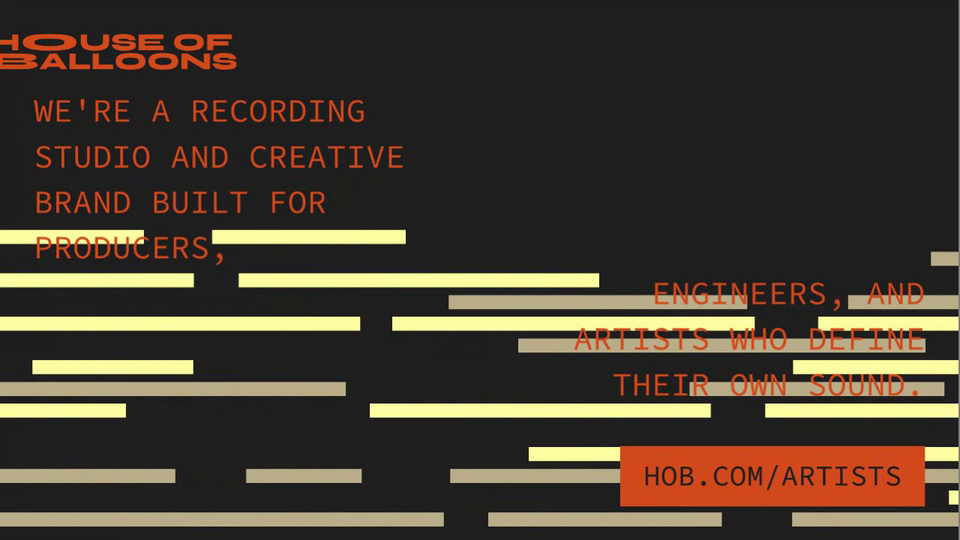
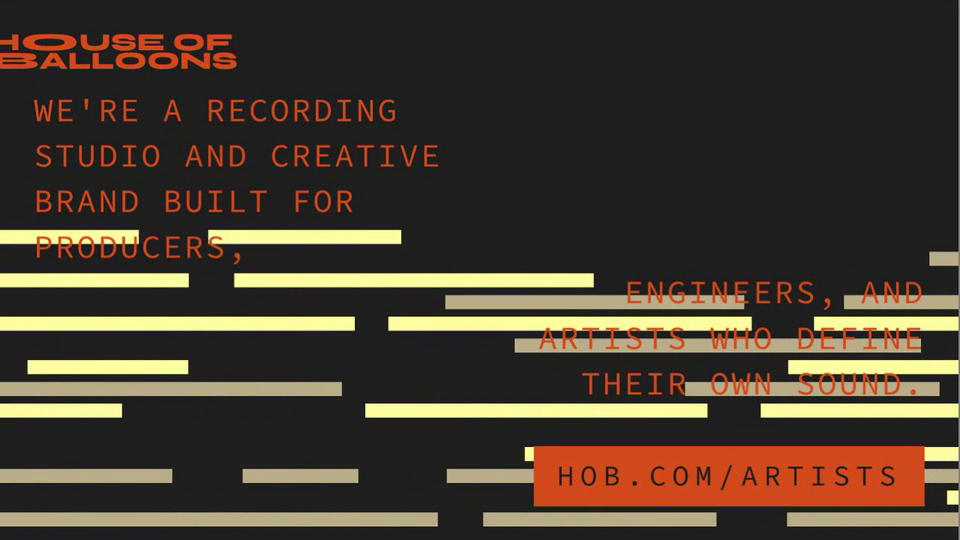
HOB Social Studio: drag text on canvas, reel safe zones, reference bitmap imagery and text styling
Claude-Session: https://claude.ai/code/session_01AHeBdw1yZrTVobosxD3wAX

diff --git a/hob-social-studio/index.html b/hob-social-studio/index.html
@@ -25,6 +25,17 @@ nav.back b{font-weight:500;color:#fff;overflow:hidden;text-overflow:ellipsis}
 #stage{flex:1;min-width:0;display:flex;align-items:center;justify-content:center;padding:20px}
 .cw{display:flex;flex-direction:column;gap:8px}
 .cap{display:flex;justify-content:space-between;font-size:12px;color:#777}
+.gal{grid-template-columns:repeat(3,1fr);margin-bottom:12px}
+.gal button{padding:0;height:56px;border-radius:8px;overflow:hidden;border:2px solid transparent;background:#222}
+.gal button img{width:100%;height:100%;object-fit:cover;display:block}
+.gal button[aria-pressed="true"]{outline:2px solid #111;outline-offset:2px;background:#222}
+.stack{position:relative}
+.stack canvas{touch-action:none}
+#lasso{position:absolute;display:none;pointer-events:none;border:2px dashed #3d9bff;border-radius:2px}
+#lasso i{position:absolute;width:9px;height:9px;background:#fff;border:2px solid #3d9bff;border-radius:2px}
+.safe{position:absolute;left:0;right:0;display:none;pointer-events:none;background:repeating-linear-gradient(135deg,rgba(255,70,70,.16) 0 6px,rgba(255,70,70,.06) 6px 12px);color:#fff;font:600 10px/1 "Inter",sans-serif;letter-spacing:.12em;text-transform:uppercase;padding:8px 10px}
+.safe.t{top:0;border-bottom:1px dashed rgba(255,255,255,.7)}.safe.b{bottom:0;border-top:1px dashed rgba(255,255,255,.7);display:none;align-items:flex-end}
+.clip #lasso,.clip .safe{display:none!important}
 canvas{display:block;width:100%;height:auto;background:#000}
 aside{flex:none;width:320px;background:#fff;border-left:1px solid #e6e6e6;padding:20px 20px 28px;overflow-y:auto}
 aside h2{font:600 13px/1 "Inter",sans-serif;margin:0 0 14px}
@@ -85,7 +96,7 @@ button.go{background:#5ca0ff;color:#fff}button.go:hover{background:#4a91f5}
 <div class="app">
   <div class="bar"><b>HOB Studio</b><div class="r"><button type="button" class="hbtn rec" id="recOpen"><span class="dot">&#9679;</span> Record Video</button><button type="button" class="hbtn exp" id="expImg">Export Image</button></div></div>
   <div class="main">
-    <div id="stage"><div class="cw" id="cw"><div class="cap"><span id="capL"></span><span id="capR"></span></div><canvas id="cv"></canvas></div></div>
+    <div id="stage"><div class="cw" id="cw"><div class="cap"><span id="capL"></span><span id="capR"></span></div><div class="stack" id="stack"><canvas id="cv"></canvas></div></div></div>
     <aside>
       <section><h2>Details</h2>
         <div class="row two"><span>Size</span><input id="w" type="number" min="200" max="2400" aria-label="Width"><input id="h" type="number" min="200" max="2400" aria-label="Height"></div>
@@ -108,6 +119,7 @@ button.go{background:#5ca0ff;color:#fff}button.go:hover{background:#4a91f5}
       </section>
       <section><h2>Image</h2>
         <label class="f" style="display:block;cursor:pointer;color:#888;margin-bottom:8px">Upload…<input id="up" type="file" accept="image/*" style="display:none"></label>
+        <div class="grid gal" id="gal"></div>
         <div class="row"><span>Pixel size</span><input id="cell" type="range" min="4" max="20" value="8"><output>8</output></div>
       </section>
       <section><h2>Motion</h2>
@@ -145,16 +157,19 @@ const COMBOS=[
   {n:'Black',bg:CHAR,tx:ORANGE,ib:CHAR,ii:CREAM,br:[CREAM,TAN]}
 ];
 const LAYOUTS=[['poster','Poster'],['image','Image Top'],['bleed','Full Bleed'],['bars','Bars']];
-const S={w:1080,h:1350,combo:0,layout:'poster',head:'HOUSE OF\nBALLOONS',b1:"WE'RE A RECORDING STUDIO AND CREATIVE BRAND BUILT FOR PRODUCERS,",b2:"ENGINEERS, AND ARTISTS WHO DEFINE THEIR OWN SOUND.",zone:'bot60',tag:'HOB.COM/ARTISTS',hs:100,bs:100,amt:1.8,sel:[1,9],cell:8,sp:100,paused:false,loop:true};
+const S={img:-1,off:{head:[0,0],b1:[0,0],b2:[0,0],tag:[0,0]},w:1080,h:1350,combo:0,layout:'poster',head:'HOUSE OF\nBALLOONS',b1:"WE'RE A RECORDING STUDIO AND CREATIVE BRAND BUILT FOR PRODUCERS,",b2:"ENGINEERS, AND ARTISTS WHO DEFINE THEIR OWN SOUND.",zone:'bot60',tag:'HOB.COM/ARTISTS',hs:100,bs:100,amt:1.8,sel:[1,9],cell:8,sp:100,paused:false,loop:true};
 const $=id=>document.getElementById(id);
 const cv=$('cv'),off=document.createElement('canvas');
 let ctx=cv.getContext('2d');const mainCtx=ctx,offCtx=off.getContext('2d');
-let T=0,last=0,W=0,H=0;
+let T=0,last=0,W=0,H=0,sel=null,drag=null;const BOX={};
 const fr=a=>a-Math.floor(a), hh=(a,b)=>fr(Math.sin(a*127.1+b*311.7)*43758.5453), mod=(a,n)=>((a%n)+n)%n;
 const HF='800 100px Syne, "Arial Black", sans-serif';
 const MONO=s=>'400 '+s+'px "Source Code Pro", ui-monospace, monospace';
 
 /* ---------- image: uploaded, or a generated balloon picture ---------- */
+const IMGS=['folds','synth','figure','face','hair','mixer'].map(n=>{const i=new Image();i.src='img/'+n+'.jpg';return i;});
+const AUTO=[0,1,2,5,4]; // each colour combo has its own default picture, taken from the poster reference
+const curImg=()=>{if(imgEl)return imgEl;const i=IMGS[S.img>=0?S.img:AUTO[S.combo]];return i&&i.complete&&i.naturalWidth?i:null;};
 let imgEl=null,seed=1,ditherKey='',gray=null,gw=0,gh=0;
 function balloons(){
   const c=document.createElement('canvas');c.width=c.height=800;const g=c.getContext('2d');
@@ -168,16 +183,16 @@ function balloons(){
   return c;
 }
 let defImg=balloons();
-$('up').onchange=e=>{const f=e.target.files[0];if(!f)return;const im=new Image();im.onload=()=>{imgEl=im;ditherKey='';};im.src=URL.createObjectURL(f);};
+$('up').onchange=e=>{const f=e.target.files[0];if(!f)return;const im=new Image();im.onload=()=>{imgEl=im;ditherKey='';buildGal();};im.src=URL.createObjectURL(f);};
 
 /* ---------- ordered dither of the image inside a rect ---------- */
 const BAYER=(function(){const d=(n,i,j)=>n===1?[[0,2],[3,1]][j][i]:d(n-1,i>>1,j>>1)+d(1,i&1,j&1)*4;const a=[];for(let j=0;j<8;j++)for(let i=0;i<8;i++)a.push(d(3,i,j));return a;})();
 function prep(R){
-  const c=S.cell,key=[R.w,R.h,c,imgEl?imgEl.src:'d'+seed].join();
+  const c=S.cell,im=curImg()||defImg,key=[R.w,R.h,c,im.src||'d'+seed].join();
   if(key===ditherKey)return;ditherKey=key;
   gw=Math.ceil(R.w/c);gh=Math.ceil(R.h/c);
   const lo=document.createElement('canvas');lo.width=gw;lo.height=gh;const g=lo.getContext('2d');
-  const im=imgEl||defImg,iw=im.naturalWidth||im.width,ih=im.naturalHeight||im.height,ar=gw/gh;
+  const iw=im.naturalWidth||im.width,ih=im.naturalHeight||im.height,ar=gw/gh;
   let sw=iw,sh=iw/ar;if(sh>ih){sh=ih;sw=ih*ar;}
   g.drawImage(im,(iw-sw)/2,(ih-sh)/2,sw,sh,0,0,gw,gh);
   const d=g.getImageData(0,0,gw,gh).data;gray=new Float32Array(gw*gh);let lo_=255,hi=0;
@@ -200,7 +215,8 @@ function drawImage(R,C){
 }
 
 /* ---------- headline with 1 or 2 stretched letters ---------- */
-const rw=ch=>{ctx.font=HF;return ctx.measureText(ch).width;};
+const ls=v=>{if('letterSpacing' in ctx)ctx.letterSpacing=v;};
+const rw=ch=>{ls('0px');ctx.font=HF;return ctx.measureText(ch).width;};
 function lineData(){
   const lines=S.head.toUpperCase().split('\n').slice(0,4),out=[];let pos=0;
   for(const L of lines){const ch=[];for(let i=0;i<L.length;i++)ch.push({c:L[i],i:pos+i,w:rw(L[i])});pos+=L.length+1;out.push(ch);}
@@ -210,23 +226,22 @@ function headMetrics(avail,mul){
   const ld=lineData();let mx=1;
   for(const L of ld){let w=0;for(const g of L)w+=g.w*(S.sel.includes(g.i)?S.amt:1);mx=Math.max(mx,w);}
   const size=avail/mx*100*(S.hs/100)*mul;ctx.font=HF;ctx.textBaseline='alphabetic';
-  const cap=ctx.measureText('H').actualBoundingBoxAscent*size/100,pitch=cap*1.22;
+  const cap=ctx.measureText('H').actualBoundingBoxAscent*size/100,pitch=cap*1.17;
   return{ld,size,cap,pitch,h:cap+pitch*(ld.length-1)};
 }
 function drawHead(M,x0,y0,col){
-  ctx.fillStyle=col;ctx.font=HF.replace('100px',M.size+'px');ctx.textBaseline='alphabetic';
+  ls('0px');ctx.fillStyle=col;ctx.font=HF.replace('100px',M.size+'px');ctx.textBaseline='alphabetic';let end=x0;
   M.ld.forEach((L,li)=>{
     let x=x0;const y=y0+M.cap+li*M.pitch;
-    for(const g of L){
-      const w=g.w*M.size/100,on=S.sel.includes(g.i),s=on?S.amt:1; // headline is static
-      ctx.save();ctx.translate(x,y);ctx.scale(s,1);ctx.fillText(g.c,0,0);ctx.restore();x+=w*s;
-    }
+    for(const g of L){const w=g.w*M.size/100,s=S.sel.includes(g.i)?S.amt:1;ctx.save();ctx.translate(x,y);ctx.scale(s,1);ctx.fillText(g.c,0,0);ctx.restore();x+=w*s;} // headline is static
+    end=Math.max(end,x);
   });
+  BOX.head={x:x0,y:y0,w:end-x0,h:M.h};
 }
 
 /* ---------- mono body + tag ---------- */
 function bodyLines(text,w,size){
-  ctx.font=MONO(size);const out=[];
+  ctx.font=MONO(size);ls('.06em');const out=[];
   for(const para of text.toUpperCase().split('\n')){let cur='';
     for(const wd of para.split(/\s+/)){const t=cur?cur+' '+wd:wd;if(cur&&ctx.measureText(t).width>w){out.push(cur);cur=wd;}else cur=t;}
     out.push(cur);}
@@ -235,12 +250,21 @@ function bodyLines(text,w,size){
 // the sub copy runs as two sections: the left one left-aligned, the right one right-aligned to the margin
 function cols(bw,size){const cw=(bw-W*.04)/2,a=bodyLines(S.b1,cw,size),b=bodyLines(S.b2,cw,size);return{a,b,h:Math.max(a.length,b.length+4)*size*1.4};}
 function drawCols(x,y,bw,size,col){
-  const c=cols(bw,size);ctx.font=MONO(size);ctx.fillStyle=col;ctx.textBaseline='top';
-  ctx.textAlign='left';c.a.forEach((l,i)=>ctx.fillText(l,x,y+i*size*1.4));
-  ctx.textAlign='right';c.b.forEach((l,i)=>ctx.fillText(l,x+bw,y+(i+4)*size*1.4));ctx.textAlign='left'; // second section sits 4 lines lower
+  const c=cols(bw,size),lh=size*1.4,o1=S.off.b1,o2=S.off.b2;
+  ctx.font=MONO(size);ls('.06em');ctx.fillStyle=col;ctx.textBaseline='top';let wa=0,wb=0;
+  ctx.textAlign='left';c.a.forEach((l,i)=>{ctx.fillText(l,x+o1[0],y+o1[1]+i*lh);wa=Math.max(wa,ctx.measureText(l).width);});
+  ctx.textAlign='right';c.b.forEach((l,i)=>{ctx.fillText(l,x+bw+o2[0],y+o2[1]+(i+4)*lh);wb=Math.max(wb,ctx.measureText(l).width);}); // second section sits 4 lines lower
+  ctx.textAlign='left';
+  BOX.b1={x:x+o1[0],y:y+o1[1],w:wa,h:c.a.length*lh};
+  BOX.b2={x:x+bw+o2[0]-wb,y:y+o2[1]+4*lh,w:wb,h:c.b.length*lh};
 }
-function tagBox(){const size=W*.03*S.bs/100;ctx.font=MONO(size);const t=S.tag.toUpperCase();return{t,size,w:ctx.measureText(t).width+size*1.6,h:size*2.1};}
-function drawTag(x,y,C){const b=tagBox();ctx.fillStyle=C.tx;ctx.fillRect(Math.round(x),Math.round(y),Math.round(b.w),Math.round(b.h));ctx.fillStyle=C.bg;ctx.font=MONO(b.size);ctx.textBaseline='middle';ctx.fillText(b.t,x+b.size*.8,y+b.h/2+b.size*.04);}
+function tagBox(){const size=W*.03*S.bs/100;ctx.font=MONO(size);ls('.2em');const t=S.tag.toUpperCase();return{t,size,w:ctx.measureText(t).width+size*1.6,h:size*2.1};}
+function drawTag(x,y,C){
+  const b=tagBox();x+=S.off.tag[0];y+=S.off.tag[1];
+  ctx.fillStyle=C.tx;ctx.fillRect(Math.round(x),Math.round(y),Math.round(b.w),Math.round(b.h));
+  ctx.fillStyle=C.bg;ctx.font=MONO(b.size);ls('.2em');ctx.textBaseline='middle';ctx.fillText(b.t,x+b.size*.8,y+b.h/2+b.size*.04);
+  BOX.tag={x,y,w:b.w,h:b.h};
+}
 
 /* ---------- bars (Stretch motif) ---------- */
 function bars(C,z){
@@ -258,17 +282,20 @@ function bars(C,z){
   }
 }
 
+/* ---------- reels keep the top and bottom free for the app's own UI ---------- */
+const isReel=()=>H/W>=1.7;
+function safe(){return isReel()?{t:H*.14,b:H*.2}:{t:0,b:0};}
 /* ---------- compose ---------- */
 function paint(tv){
   T=tv;const C=COMBOS[S.combo],land=W>H*1.2,m=W*.035,L=S.layout,size=W*.034*S.bs/100;
   ctx.globalAlpha=1;ctx.fillStyle=C.bg;ctx.fillRect(0,0,W,H);
-  const tg=tagBox(),gap=m*.8;let hx=m,hy=m,hw=W-2*m,img=null,regionH=H-2*m,zone=null;
+  const tg=tagBox(),gap=m*.8,sT=safe().t,sB=safe().b;let hx=m,hy=sT+m,hw=W-2*m,img=null,regionH=H-2*m,zone=null;
   if(L==='poster'){if(land){hw=W*.5-1.5*m;img={x:W*.5,y:0,w:W*.5,h:H};}}
   else if(L==='image'){if(land){hx=W*.5+m;hw=W*.5-2*m;img={x:0,y:0,w:W*.5,h:H};}else{img={x:0,y:0,w:W,h:H*.6};hy=H*.6+m;}}
   else if(L==='bleed'){img={x:0,y:0,w:W,h:H};}
   else{ // bars live in a band at the top or bottom; the text takes the rest
     const f=S.zone.endsWith('25')?.25:.6,top=S.zone.startsWith('top');
-    zone=top?{y0:0,y1:H*f}:{y0:H*(1-f),y1:H};hy=top?H*f+m:m;regionH=H*(1-f)-2*m-tg.h;
+    zone=top?{y0:0,y1:H*f}:{y0:H*(1-f),y1:H};hy=top?H*f+m:sT+m;regionH=H*(1-f)-2*m-tg.h-(top?sB:sT);
   }
   // a full-width headline runs slightly past both edges
   const wide=hw===W-2*m,avail=wide?W*1.04:hw,hx0=wide?-W*.012:hx,bx=wide?m:hx,bw=wide?W-2*m:hw;
@@ -278,10 +305,10 @@ function paint(tv){
   if(L==='poster'&&!land){const top=Math.round(by+c.h+gap);img={x:0,y:top,w:W,h:Math.max(m,H-top)};}
   if(img)drawImage({x:Math.round(img.x),y:Math.round(img.y),w:Math.round(img.w),h:Math.round(img.h)},C);
   if(zone)bars(C,zone);
-  drawHead(M,hx0,hy,C.tx);
+  drawHead(M,hx0+S.off.head[0],hy+S.off.head[1],C.tx);
   drawCols(bx,by,bw,size,C.tx);
   const tx=(land&&L!=='bleed'&&L!=='bars')?hx:W-m-tg.w;
-  drawTag(tx,H-m-tg.h,C);
+  drawTag(tx,H-sB-m-tg.h,C);
   ctx.globalAlpha=1;
 }
 
@@ -298,7 +325,7 @@ function draw(now){
     if(rt>=rec.L){frame(rec.t0+rec.L*S.sp/100,rec.L);rec.on=false;rec.mr.stop();}
     else{frame(rec.t0+rt*S.sp/100,rt);$('recOpen').lastChild.textContent=' Recording… '+Math.ceil(rec.L-rt)+'s';}
   }else{if(!S.paused)T+=dt*S.sp/100;paint(T);}
-  requestAnimationFrame(draw);
+  ui();requestAnimationFrame(draw);
 }
 const MIMES=[['video/mp4;codecs=avc1','mp4'],['video/mp4','mp4'],['video/webm;codecs=vp9','webm'],['video/webm','webm']];
 const fmt=window.MediaRecorder&&MediaRecorder.isTypeSupported&&MIMES.find(m=>MediaRecorder.isTypeSupported(m[0]));
@@ -333,7 +360,7 @@ document.querySelectorAll('#loop button').forEach(b=>b.onclick=()=>{S.loop=b.dat
 
 /* ---------- UI ---------- */
 function size(w,h){
-  S.w=Math.min(2400,Math.max(200,Math.round(w/2)*2));S.h=Math.min(2400,Math.max(200,Math.round(h/2)*2));W=S.w;H=S.h;
+  S.w=Math.min(2400,Math.max(200,Math.round(w/2)*2));S.h=Math.min(2400,Math.max(200,Math.round(h/2)*2));W=S.w;H=S.h;for(const k in S.off)S.off[k]=[0,0];
   for(const c of [cv,off]){c.width=W;c.height=H;}ditherKey='';
   $('w').value=W;$('h').value=H;const v=W+'x'+H;$('pre').value=[...$('pre').options].some(o=>o.value===v)?v:'';
   $('capR').textContent=W+'×'+H;fit();
@@ -348,6 +375,12 @@ function buildSwatches(){
   $('zones').innerHTML='';[['top25','Top 25%'],['top60','Top 60%'],['bot25','Bottom 25%'],['bot60','Bottom 60%']].forEach(([id,n])=>{const b=document.createElement('button');b.type='button';b.textContent=n;b.setAttribute('aria-pressed',id===S.zone);b.onclick=()=>{S.zone=id;buildSwatches();};$('zones').appendChild(b);});
   $('zones').style.display=$('zcap').style.display=S.layout==='bars'?'':'none';
   $('capL').textContent=LAYOUTS.find(l=>l[0]===S.layout)[1]+' · '+COMBOS[S.combo].n;
+}
+function buildGal(){
+  const g=$('gal');g.innerHTML='';
+  IMGS.forEach((im,i)=>{const b=document.createElement('button');b.type='button';b.setAttribute('aria-pressed',!imgEl&&S.img===i);b.setAttribute('aria-label','Picture '+(i+1));
+    const t=document.createElement('img');t.src=im.src;t.alt='';b.appendChild(t);
+    b.onclick=()=>{imgEl=null;S.img=S.img===i?-1:i;buildGal();};g.appendChild(b);});
 }
 function buildChips(){
   const box=$('chips');box.innerHTML='';const t=S.head.toUpperCase();
@@ -369,10 +402,40 @@ $('b1').oninput=e=>{S.b1=e.target.value;};$('b2').oninput=e=>{S.b2=e.target.valu
 $('w').onchange=()=>size(+$('w').value,S.h);$('h').onchange=()=>size(S.w,+$('h').value);
 $('pre').onchange=e=>{if(!e.target.value)return;const[a,b]=e.target.value.split('x');size(+a,+b);};
 $('pause').onclick=e=>{S.paused=!S.paused;e.target.textContent=S.paused?'Resume':'Pause';};
+const lasso=document.createElement('div');lasso.id='lasso';
+['-6px;left:-6px','-6px;right:-6px','bottom:-6px;left:-6px','bottom:-6px;right:-6px'].forEach(c=>{const i=document.createElement('i');i.style.cssText=(c.startsWith('bottom')?'':'top:')+c;lasso.appendChild(i);});
+const zt=document.createElement('div'),zb=document.createElement('div');zt.className='safe t';zb.className='safe b';zt.textContent=zb.textContent='Safe zone · keep text clear';
+$('stack').append(zt,zb,lasso);
+function ui(){
+  const k=cv.clientWidth/W,show=!rec.on&&!document.body.classList.contains('clip'),sf=safe();
+  zt.style.display=show&&sf.t?'block':'none';zb.style.display=show&&sf.b?'flex':'none';zt.style.height=sf.t*k+'px';zb.style.height=sf.b*k+'px';
+  const b=sel&&BOX[sel];
+  if(show&&b){lasso.style.display='block';lasso.style.left=(b.x-10)*k+'px';lasso.style.top=(b.y-10)*k+'px';lasso.style.width=(b.w+20)*k+'px';lasso.style.height=(b.h+20)*k+'px';}
+  else lasso.style.display='none';
+}
+const cpt=e=>{const r=cv.getBoundingClientRect();return[(e.clientX-r.left)*W/r.width,(e.clientY-r.top)*H/r.height];};
+const pick=(x,y)=>['tag','b2','b1','head'].find(k=>{const b=BOX[k];return b&&x>=b.x-14&&x<=b.x+b.w+14&&y>=b.y-14&&y<=b.y+b.h+14;})||null;
+cv.addEventListener('pointerdown',e=>{
+  if(rec.on)return;const[x,y]=cpt(e);sel=pick(x,y);
+  if(sel){drag={x,y,o:[...S.off[sel]]};cv.setPointerCapture(e.pointerId);cv.style.cursor='grabbing';}
+});
+cv.addEventListener('pointermove',e=>{
+  const[x,y]=cpt(e);
+  if(!drag){cv.style.cursor=pick(x,y)?'grab':'default';return;}
+  const o=S.off[sel],b=BOX[sel],bx=b.x-o[0],by=b.y-o[1],sf=safe();
+  let nx=drag.o[0]+x-drag.x,ny=drag.o[1]+y-drag.y;
+  ny=Math.min(H-sf.b-b.h,Math.max(sf.t,by+ny))-by; // text stays out of the safe zones
+  nx=Math.min(W-40,Math.max(40-b.w,bx+nx))-bx;      // and never fully leaves the canvas
+  S.off[sel]=[nx,ny];
+});
+const end=()=>{drag=null;cv.style.cursor='default';};
+cv.addEventListener('pointerup',end);cv.addEventListener('pointercancel',end);
+cv.addEventListener('dblclick',()=>{if(sel)S.off[sel]=[0,0];});
+addEventListener('keydown',e=>{if(e.key==='Escape')sel=null;});
 addEventListener('resize',fit);
 const hash=location.hash.slice(1).split('&');
 if(hash.includes('clip')){document.body.classList.add('clip');S.layout='bars';S.combo=4;}
-buildSwatches();buildChips();size(hash.includes('clip')?1920:1080,hash.includes('clip')?1080:1350);
+buildSwatches();buildChips();buildGal();size(hash.includes('clip')?1920:1080,hash.includes('clip')?1080:1350);
 Promise.all([document.fonts.load('800 100px Syne'),document.fonts.load('400 20px "Source Code Pro"')]).catch(()=>{});
 requestAnimationFrame(draw);
 window.__hobs={set:o=>{Object.assign(S,o);buildSwatches();if(o.w)size(o.w,o.h||S.h);}};

diff --git a/tools/record-clips.js b/tools/record-clips.js
@@ -81,7 +81,7 @@ const APPS = {
     await at(t0, 4900, () => go('stretch'));
   } },
   // House of Balloons social studio: opens on the bars layout (1920x1080), then cycles poster, full bleed and a new colour combo and back
-  'hob-social-studio': { vp: [1280, 769], crop: [0, 49, 1280, 720], hash: '#clip', ready: 900, q: 30, run: async (p) => {
+  'hob-social-studio': { vp: [1280, 769], crop: [0, 49, 1280, 720], hash: '#clip', http: true, ready: 900, q: 30, run: async (p) => {
     const t0 = Date.now(), go = (o) => p.evaluate((x) => __hobs.set(x), o);
     await at(t0, 1500, () => go({ layout: 'poster', combo: 0 }));
     await at(t0, 3000, () => go({ layout: 'bleed', combo: 3 }));
